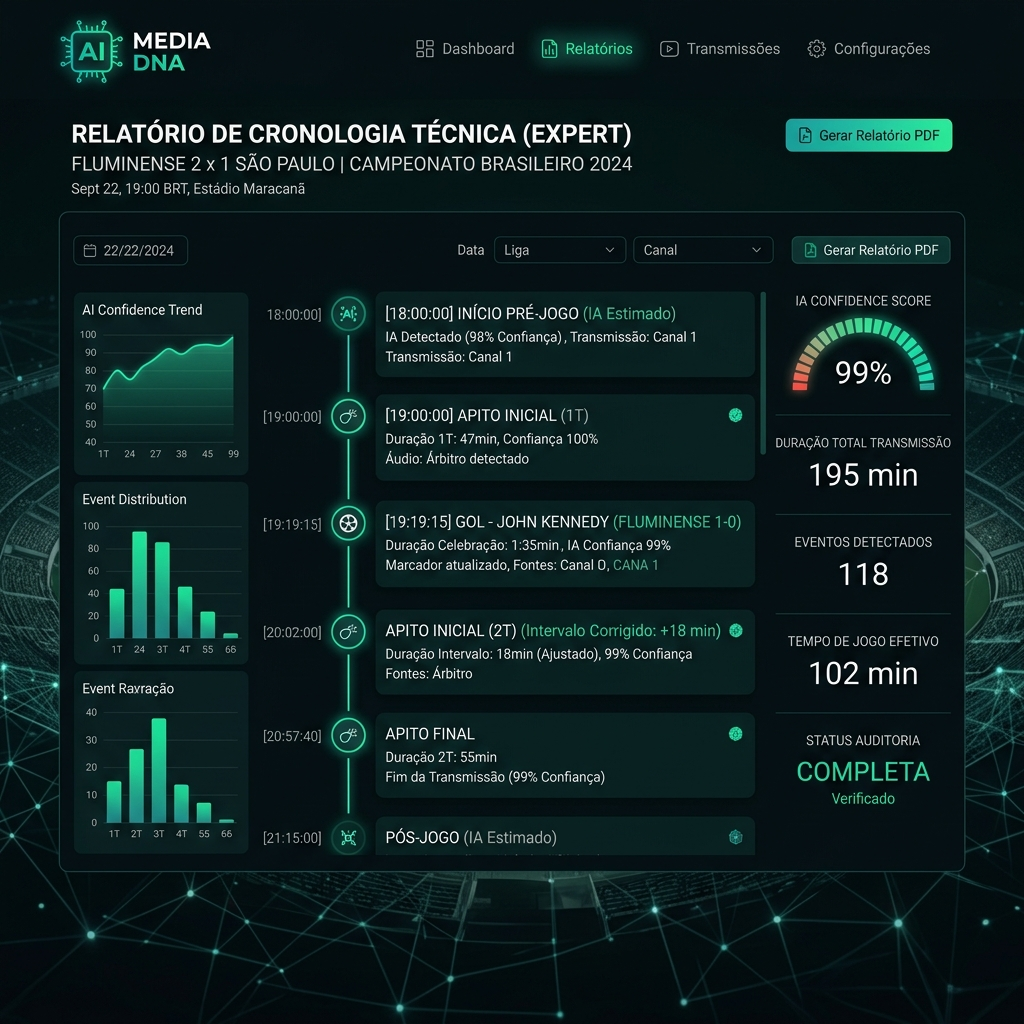
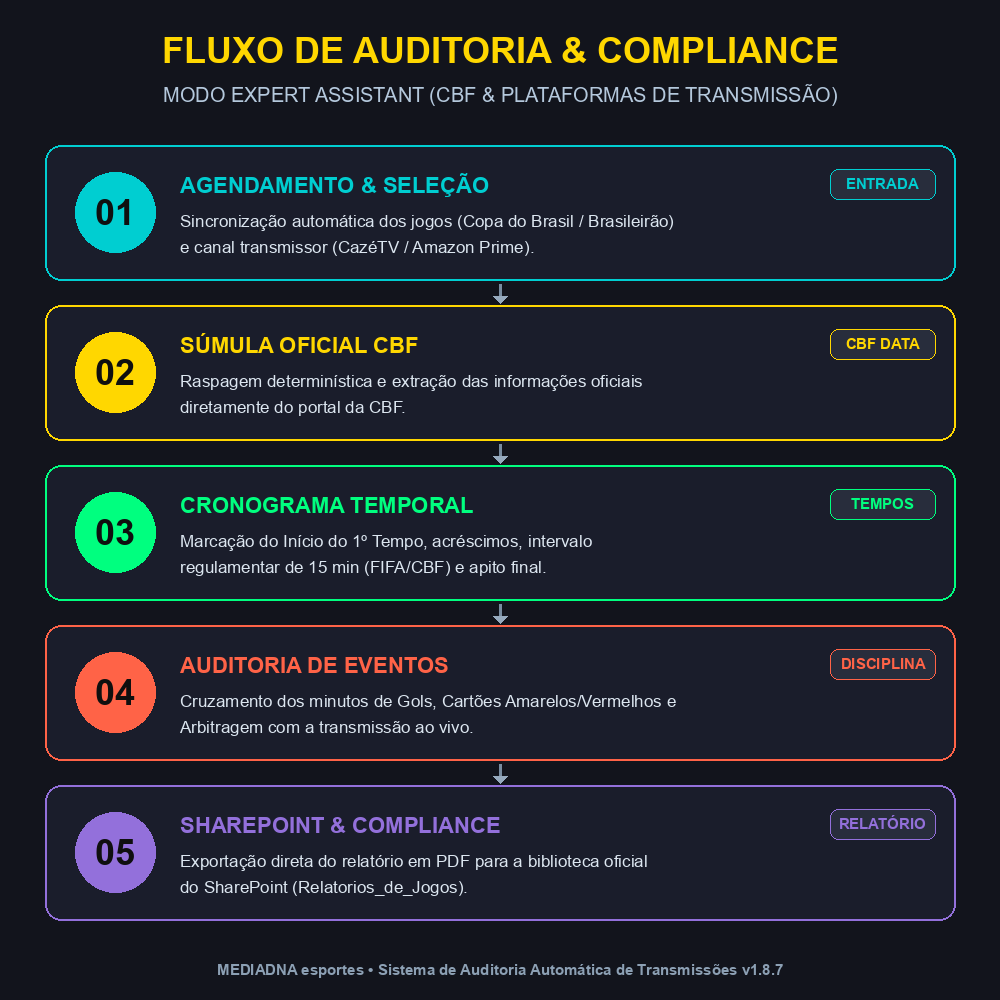
release: bump version to 1.8.7 with SharePoint event date fix and expert infographic

Changed region(s): [[0.0, 0.0, 1.0, 0.93], [0.217, 0.961, 0.775, 0.992]]

diff --git a/gui/main_gui.py b/gui/main_gui.py
@@ -5,6 +5,24 @@ import sys
 from pathlib import Path
 import ssl
 
+# --- BOOTSTRAP DE SYS.PATH (Garantia de importação para 'modules' em Script e Executável PyInstaller) ---
+if getattr(sys, "frozen", False):
+    meipass = getattr(sys, "_MEIPASS", None)
+    if meipass and meipass not in sys.path:
+        sys.path.insert(0, meipass)
+    exe_dir = str(Path(sys.executable).parent)
+    if exe_dir not in sys.path:
+        sys.path.insert(0, exe_dir)
+    try:
+        os.chdir(Path(sys.executable).parent)
+    except Exception:
+        pass
+else:
+    file_dir = Path(__file__).resolve().parent
+    root_dir = str(file_dir.parent) if file_dir.name == "gui" else str(file_dir)
+    if root_dir not in sys.path:
+        sys.path.insert(0, root_dir)
+
 try:
     ssl._create_default_https_context = ssl._create_unverified_context
 except AttributeError:
@@ -21,16 +39,8 @@ try:
 except Exception:
     pass
 
-if getattr(sys, "frozen", False):
-    try:
-        os.chdir(Path(sys.executable).parent)
-    except Exception:
-        pass
 os.environ["PADDLE_PDX_DISABLE_MODEL_SOURCE_CHECK"] = "True"
 
-# --- bootstrap de path (pra rodar no VSCode / python gui/main_gui.py) ---
-import sys
-from pathlib import Path
 from datetime import datetime, timedelta
 
 import tkinter as tk
@@ -39,15 +49,23 @@ import unicodedata
 import urllib.request
 import io
 
-_TEMP_ROOT = Path(__file__).resolve().parents[1]
-if str(_TEMP_ROOT) not in sys.path:
-    sys.path.insert(0, str(_TEMP_ROOT))
-
 if getattr(sys, "frozen", False):
     PROJECT_ROOT = Path(sys.executable).parent
 else:
-    PROJECT_ROOT = _TEMP_ROOT
+    file_dir = Path(__file__).resolve().parent
+    PROJECT_ROOT = file_dir.parent if file_dir.name == "gui" else file_dir
 # ------------------------------------------------------------------------
+
+# --- SMOKE TEST GUARDRAIL (Validação de inicialização pré-deploy) ---
+if "--check-version" in sys.argv or "--smoke-test" in sys.argv:
+    try:
+        from modules.auto_updater import AutoUpdater
+        print(f"SMOKE_TEST_OK: v{AutoUpdater().current_version}")
+        sys.exit(0)
+    except Exception as e_smoke:
+        print(f"SMOKE_TEST_FAILED: {e_smoke}")
+        sys.exit(1)
+# --------------------------------------------------------------------
 
 import os
 import re
@@ -3991,20 +4009,15 @@ class MonitorApp(MonitorCoreMixin, ctk.CTk):
         comp = item.get("comp", "Brasileirão")
         plat = item.get("channel", "Amazon Prime")
         date_str = item.get("date", "")
+        time_str = item.get("time", "")
         
-        iso_date = None
-        if date_str:
-            try:
-                dt = datetime.strptime(date_str, "%d/%m/%Y")
-                iso_date = dt.strftime("%Y-%m-%dT20:00:00Z")
-            except Exception:
-                pass
+        from modules.sharepoint_reporter import SharePointReporter
+        iso_date = SharePointReporter.format_iso_datetime(date_str, time_str)
 
-        self._log(f"[SHAREPOINT] Sincronizando '{match_str}' com o SharePoint Document Library...")
+        self._log(f"[SHAREPOINT] Sincronizando '{match_str}' (Data/Hora evento: {iso_date}) com o SharePoint...")
         
         def run_sync():
             try:
-                from modules.sharepoint_reporter import SharePointReporter
                 success = SharePointReporter.sync_pdf_to_sharepoint(
                     pdf_path=pdf_path,
                     partida=match_str,
@@ -5954,6 +5967,15 @@ class MonitorApp(MonitorCoreMixin, ctk.CTk):
         container = ctk.CTkScrollableFrame(flow_win, fg_color="transparent")
         container.pack(fill="both", expand=True, padx=30, pady=20)
 
+        def _resolve_asset(name: str) -> str:
+            if getattr(sys, 'frozen', False) and hasattr(sys, '_MEIPASS'):
+                p = os.path.join(sys._MEIPASS, "data", "assets", name)
+                if os.path.exists(p): return p
+            base_dir = os.path.dirname(os.path.dirname(os.path.abspath(__file__)))
+            p2 = os.path.join(base_dir, "data", "assets", name)
+            if os.path.exists(p2): return p2
+            return os.path.join("data", "assets", name)
+
         # 1. MODO VISUAL (Layout Lateral)
         vis_f = ctk.CTkFrame(container, border_width=1, border_color="#00CED1", fg_color="#141414", corner_radius=15)
         vis_f.pack(fill="x", pady=(0, 30), padx=5)
@@ -5962,16 +5984,16 @@ class MonitorApp(MonitorCoreMixin, ctk.CTk):
         left_v.pack(side="left", padx=20, pady=20)
         
         right_v = ctk.CTkFrame(vis_f, fg_color="transparent")
-        right_v.pack(side="left", fill="both", expand=True, padx=(100, 20), pady=20)
+        right_v.pack(side="left", fill="both", expand=True, padx=(20, 20), pady=20)
         
-        img_v_path = os.path.join("data", "assets", "visual_flow.png")
+        img_v_path = _resolve_asset("visual_flow.png")
         if os.path.exists(img_v_path):
             try:
                 pil_v = Image.open(img_v_path)
-                # Tamanho equilibrado para evitar clipping lateral
-                ctk_v = ctk.CTkImage(light_image=pil_v, dark_image=pil_v, size=(650, 650))
+                ctk_v = ctk.CTkImage(light_image=pil_v, dark_image=pil_v, size=(600, 600))
                 ctk.CTkLabel(left_v, image=ctk_v, text="").pack()
-            except: pass
+            except Exception as e_v:
+                print(f"[UI WARN] Erro ao carregar visual_flow.png: {e_v}")
             
         ctk.CTkLabel(right_v, text=" MODO VISUAL (AI VISION & OBS)", font=ctk.CTkFont(size=26, weight="bold"), 
                      text_color="#00CED1").pack(pady=(10, 20), anchor="nw")
@@ -6002,25 +6024,29 @@ class MonitorApp(MonitorCoreMixin, ctk.CTk):
         left_e.pack(side="left", padx=20, pady=20)
         
         right_e = ctk.CTkFrame(exp_f, fg_color="transparent")
-        right_e.pack(side="left", fill="both", expand=True, padx=(100, 20), pady=20)
+        right_e.pack(side="left", fill="both", expand=True, padx=(20, 20), pady=20)
         
-        img_e_path = os.path.join("data", "assets", "expert_flow.png")
+        img_e_path = _resolve_asset("expert_flow.png")
+        print(f"[UI ASSET] Carregando imagem expert_flow.png de: {img_e_path}")
         if os.path.exists(img_e_path):
             try:
                 pil_e = Image.open(img_e_path)
-                ctk_e = ctk.CTkImage(light_image=pil_e, dark_image=pil_e, size=(650, 650))
+                ctk_e = ctk.CTkImage(light_image=pil_e, dark_image=pil_e, size=(600, 600))
                 ctk.CTkLabel(left_e, image=ctk_e, text="").pack()
-            except: pass
+            except Exception as e_e:
+                print(f"[UI WARN] Erro ao carregar expert_flow.png: {e_e}")
+        else:
+            print(f"[UI WARN] Imagem expert_flow.png não existe em {img_e_path}")
             
         ctk.CTkLabel(right_e, text=" MODO EXPERT ASSISTANT (API & SEARCH)", font=ctk.CTkFont(size=26, weight="bold"), 
                      text_color="#FFD700").pack(pady=(10, 20), anchor="nw")
         
         exp_desc = (
-            "• BUSCA PROFUNDA (GROUNDING): A IA consulta portais esportivos e súmulas oficiais.\n\n"
-            "• RECONSTRUÇÃO TÉCNICA: Reconstitui Gols, Cartões, VAR e Substituições com precisão.\n\n"
-            "• EXAUSTIVIDADE GARANTIDA: Motor configurado para extrair 100% dos lances técnicos.\n\n"
-            "• AUDITORIA DIGITAL: Validação baseada em trilha pública (Digital Footprint).\n\n"
-            "• RELATÓRIO CONSOLIDADO: Gera PDF técnico detalhado para fins de conformidade legal."
+            "• RASPAGEM AUTOMÁTICA DE SÚMULAS: Localiza e extrai automaticamente as súmulas oficiais dos jogos da CBF (Copa do Brasil e Brasileirão).\n\n"
+            "• LINHA DO TEMPO REGULAMENTAR: Mapeia o horário de início do 1º Tempo, acréscimos, os 15 min de intervalo (norma FIFA) e o encerramento do jogo.\n\n"
+            "• REGISTRO COMPLETO DE EVENTOS: Consolidação total de Gols, Cartões Amarelos/Vermelhos, Substituições e Equipe de Arbitragem.\n\n"
+            "• AUDITORIA DE TRANSMISSÃO: Cruza os horários oficiais da súmula com a transmissão ao vivo do canal (CazéTV / Amazon Prime).\n\n"
+            "• RELATÓRIO CONSOLIDADO DE COMPLIANCE: Gera relatório oficial pronto para auditoria, controle de qualidade e conformidade legal."
         )
         ctk.CTkLabel(right_e, text=exp_desc, font=ctk.CTkFont(size=20), text_color="#EEEEEE", 
                      justify="left", wraplength=600, anchor="nw").pack(anchor="nw", fill="both", expand=True)

diff --git a/modules/sharepoint_reporter.py b/modules/sharepoint_reporter.py
@@ -1,4 +1,5 @@
 import os
+import re
 import requests
 import json
 import logging
@@ -88,6 +89,50 @@ class SharePointReporter:
         return "Amazon Prime"
 
     @classmethod
+    def format_iso_datetime(cls, date_str: str, time_str: str = None) -> str:
+        """
+        Converte uma data de evento (ex: '26/08/2026', '2026-08-26' ou '26 de agosto de 2026')
+        e horário (ex: '21:30') em formato ISO 8601 UTC para a coluna Data_Hora do SharePoint.
+        """
+        if not date_str or not str(date_str).strip():
+            return datetime.now(timezone.utc).strftime("%Y-%m-%dT%H:%M:%SZ")
+
+        raw_str = f"{str(date_str).strip()} {str(time_str or '').strip()}".strip()
+        
+        formats = [
+            "%d/%m/%Y %H:%M", "%d/%m/%Y %H:%M:%S", "%d/%m/%Y",
+            "%Y-%m-%d %H:%M", "%Y-%m-%d %H:%M:%S", "%Y-%m-%d",
+            "%Y-%m-%dT%H:%M:%SZ", "%Y-%m-%dT%H:%M:%S"
+        ]
+        for fmt in formats:
+            try:
+                dt = datetime.strptime(raw_str, fmt)
+                return dt.strftime("%Y-%m-%dT%H:%M:%SZ")
+            except Exception:
+                pass
+        
+        # Parse textual ex: "26 de agosto de 2026"
+        m_txt = re.search(r'(\d{1,2})\s+de\s+(\w+)\s+de\s+(\d{4})', str(date_str))
+        if m_txt:
+            day, month_name, year = m_txt.groups()
+            months = {
+                "janeiro": 1, "fevereiro": 2, "março": 3, "marco": 3, "abril": 4,
+                "maio": 5, "junho": 6, "julho": 7, "agosto": 8, "setembro": 9,
+                "outubro": 10, "novembro": 11, "dezembro": 12
+            }
+            m_num = months.get(month_name.lower(), 1)
+            t_str = time_str or "20:00"
+            try:
+                t_parts = t_str.split(":")
+                hh, mm = int(t_parts[0]), int(t_parts[1])
+            except Exception:
+                hh, mm = 20, 0
+            dt = datetime(int(year), m_num, int(day), hh, mm)
+            return dt.strftime("%Y-%m-%dT%H:%M:%SZ")
+            
+        return datetime.now(timezone.utc).strftime("%Y-%m-%dT%H:%M:%SZ")
+
+    @classmethod
     def sync_pdf_to_sharepoint(cls, pdf_path: str, partida: str, campeonato: str, plataforma: str, data_hora_iso: str = None, confianca: str = "99.0%") -> bool:
         """
         Envia o PDF para a biblioteca de documentos do SharePoint e sincroniza os 7 campos de metadados.
@@ -148,7 +193,7 @@ class SharePointReporter:
                 "Partida": partida,
                 "Campeonato": cls.normalizar_campeonato(campeonato),
                 "Plataforma": cls.normalizar_plataforma(plataforma),
-                "Data_Partida": data_hora_iso,  # NOME INTERNO NO SHAREPOINT
+                "Data_Partida": data_hora_iso,  # NOME INTERNO DA COLUNA Data_Hora NO SHAREPOINT
                 "Confianca": str(confianca),
                 "Auditado": True
             }
@@ -156,7 +201,7 @@ class SharePointReporter:
             fields_url = f"https://graph.microsoft.com/v1.0/sites/{site_id}/drives/{drive_id}/items/{item_id}/listItem/fields"
             r_fields = requests.patch(fields_url, headers=headers, json=fields_payload, timeout=20)
             if r_fields.status_code in (200, 201):
-                logger.info(f"🎉 [SharePoint] PDF '{filename}' e 7 metadados sincronizados com sucesso!")
+                logger.info(f"🎉 [SharePoint] PDF '{sp_filename}' e 7 metadados sincronizados com sucesso!")
                 return True
             else:
                 logger.warning(f"⚠ [SharePoint] PDF enviado, mas erro nos metadados ({r_fields.status_code}): {r_fields.text}")

diff --git a/modules/report_generator.py b/modules/report_generator.py
@@ -1291,7 +1291,10 @@ class ReportGenerator:
             comp = str(res0.get("competition") or "Brasileiro Serie A").strip()
             plat = str(res0.get("platform") or "Amazon Prime").strip()
             conf = f"{float(res0.get('confidence_score') or 99.0):.1f}%"
-            SharePointReporter.sync_pdf_to_sharepoint(pdf_path, partida, comp, plat, confianca=conf)
+            event_date = res0.get("date") or res0.get("event_date") or ""
+            event_time = res0.get("time") or res0.get("event_time") or ""
+            iso_date = SharePointReporter.format_iso_datetime(event_date, event_time)
+            SharePointReporter.sync_pdf_to_sharepoint(pdf_path, partida, comp, plat, data_hora_iso=iso_date, confianca=conf)
         except Exception as e_sp:
             pass
         return pdf_path

diff --git a/modules/auto_updater.py b/modules/auto_updater.py
@@ -10,7 +10,7 @@ import time
 import urllib.request
 import subprocess
 
-CURRENT_VERSION = "1.8.4"
+CURRENT_VERSION = "1.8.7"
 
 class AutoUpdater:
     def __init__(self, version_url: str = "https://raw.githubusercontent.com/CleberSGoncalves/Monitor_Esportes/main/version.json"):
